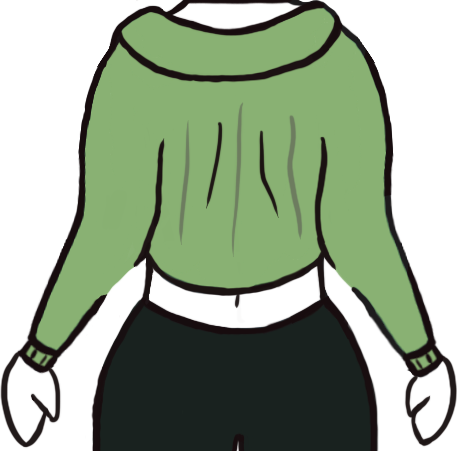
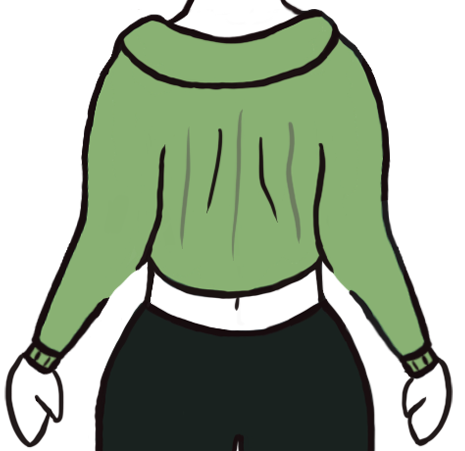
0912

diff --git a/css/style.css b/css/style.css
@@ -226,12 +226,19 @@ body {
     height: calc(526 / 1504 * 100%);
     transform-origin: center top;
 }
+.me-leg-right .face-back{
+    left: 0%;
+    top: 0%;
+    width: 100%;
+    height: 106%;
+}
+
 
 .me-leg-right {
     left: calc(255 / 510 * 100%);
     top: calc(970 / 1504 * 100%);
     width: calc(170 /  510 * 100%);
-    height: calc(526 / 1504 * 100%);
+    height: calc(530 / 1504 * 100%);
     transform-origin: center top;
 }
 
@@ -409,7 +416,7 @@ body {
     top: 50%;
     width: 80%;
     height: 70%;
-    transform-origin: bottom right;
+    transform-origin: top right;
 }
 
 .rowin-tail .face-front { background-image: url('../image/R_tail.png'); }
@@ -490,10 +497,10 @@ body[data-char='Ddo'] .me-head {
 }
 
 body[data-char='Ddo'] .me-head .face-back {
-    left: 10%;
-    top: -5%;
-    width: 95%;
-    height: 105%;
+    left: 8.5%;
+    top: 0%;
+    width: 90%;
+    height: 95%;
 }
 
 body[data-char='Ddo'] .me-head .face-front { background-image: url('../image/Ddo_head_front.png'); }
@@ -521,9 +528,9 @@ body[data-char='Ddo'] .me-body {
     transform-origin: center center;
 }
 body[data-char='Ddo'] .me-body .face-back {
-    left: -19.5%;
-    top: -1%;
-    width: 146%;
+    left: -18.5%;
+    top: -2.5%;
+    width: 145%;
     height: 105%;  
 }
 
@@ -572,7 +579,7 @@ body[data-char='Ddo'] .me-leg-right {
     left: calc(255 / 510 * 100%);
     top: calc(760 / 1261 * 100%);
     width: calc(155 / 466 * 100%);
-    height: calc(570 / 1261 * 100%);
+    height: calc(580 / 1261 * 100%);
     transform-origin: center top;
 }
 
@@ -584,8 +591,8 @@ body[data-char='Ddo'] .me-leg-right .face-back {
 }
 
 body[data-char='Ddo'] .me-leg-left .face-back {
-    left: 2.5%;
-    width: 100%;
+    left: 9%;
+    width: 90%;
     height: 100%;
 }
 
@@ -596,7 +603,7 @@ body[data-char='Ddo'] .me-leg-left {
     left: calc(75 / 510 * 100%);
     top: calc(750 / 1261 * 100%);
     width: calc(160 / 466 * 100%);
-    height: calc(542 / 1261 * 100%);
+    height: calc(550 / 1261 * 100%);
     transform-origin: center top;
 }
 body[data-char='Ddo'] .me-leg-left .face-front { background-image: url('../image/Ddo_leg_L.png'); }
@@ -639,8 +646,8 @@ body[data-char='Ddo'] .colra-effect {
 }
 
 body[data-char='Ddo'] .colra-effect .face-back {
-    left: 76%;
-    top: 203%;
+    left: 40%;
+    top: 150%;
     z-index: 25160;
     width: 40%;
     height: 40%;

diff --git a/index.html b/index.html
@@ -16,8 +16,6 @@
     
     <div class="select-character">
         <button class="select-character-btn select-character-btn-me" data-char="me"></button>
-        
-        <!-- invisible Ddo -->
         <button class="select-character-btn select-character-btn-Ddo" data-char="Ddo"></button>
     </div>
    
